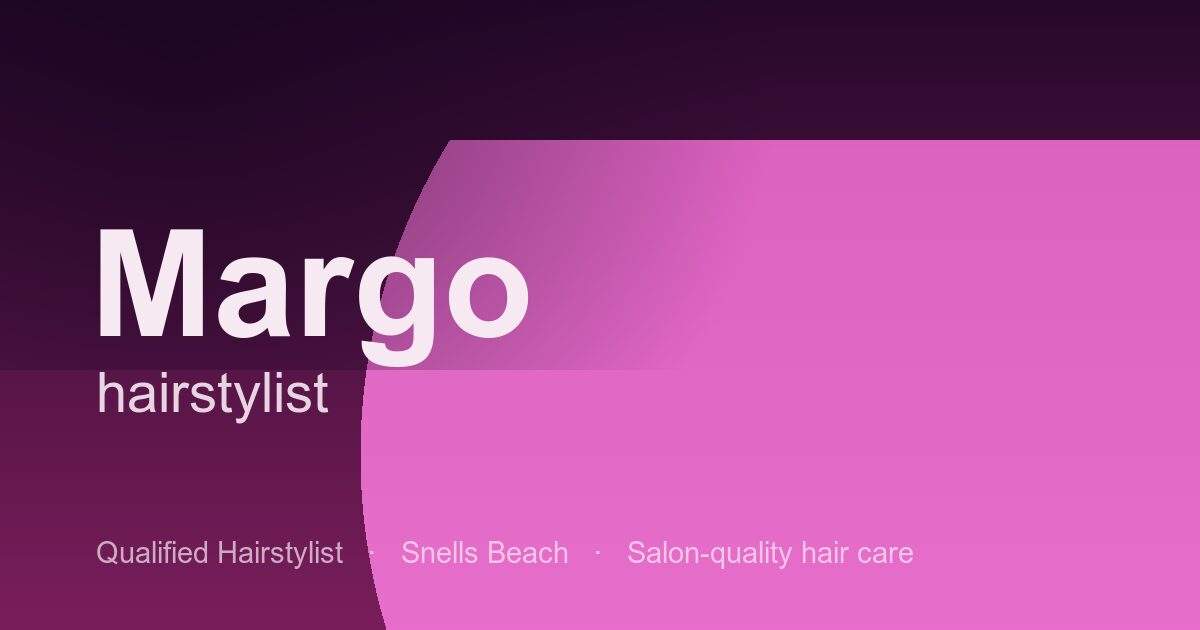
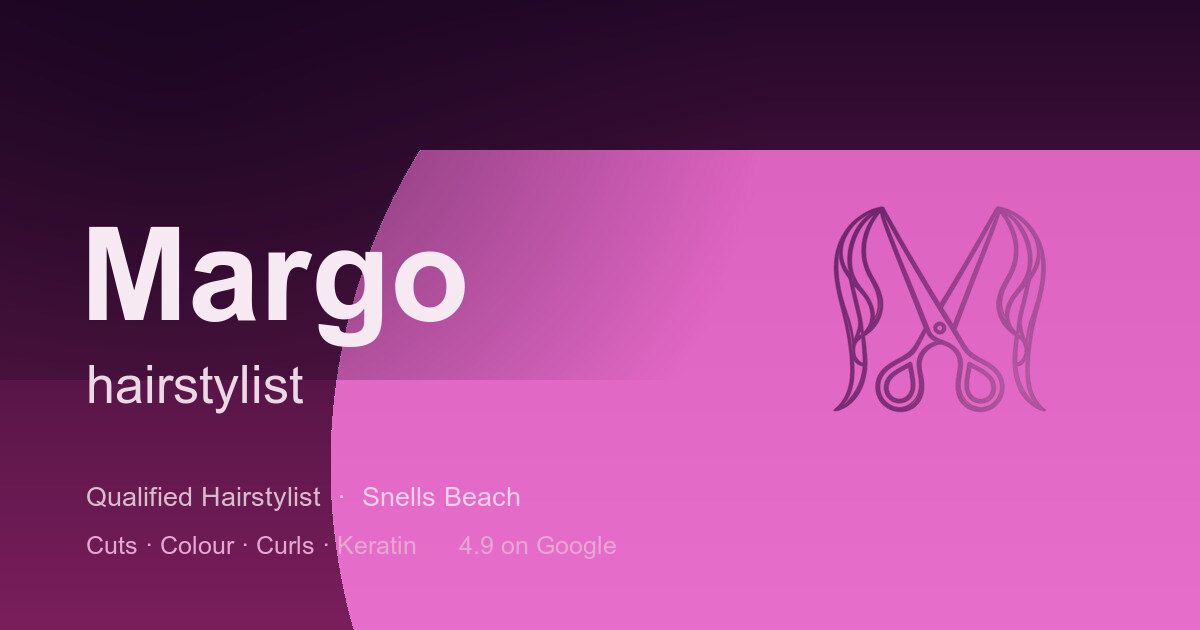
Blog articles from infographics, article layout, QV badge on all pages, OG refresh
- Blog: 2 hair-science infographic articles (full text) + reader reordered
  to meta -> title -> hook -> image -> body
- Split "Margo's promise" into its own section so Blog nav lands on the posts
- QV owl badge added to /login and /admin (every page, every breakpoint)
- Numbered boxes: number + title inline (services + why-margo), mobile-friendly
- New branded OG image (logo + tagline + 4.9 Google) + refreshed OG/Twitter copy

Changed region(s): [[0.0617, 0.2413, 0.7708, 1.0], [0.6783, 0.3317, 0.8942, 0.6635], [0.37, 0.2111, 1.0, 0.2413]]

diff --git a/src/index.css b/src/index.css
@@ -365,19 +365,25 @@ h1, h2, h3, h4 {
 .about-card {
   padding: 2rem 0;
   border-top: 1px solid var(--line);
+  display: grid;
+  grid-template-columns: auto 1fr;
+  grid-template-areas: "num title" ". body";
+  column-gap: 0.6rem;
+  row-gap: 0.75rem;
+  align-items: baseline;
 }
 .about-card .num {
+  grid-area: num;
   font-family: var(--serif);
   font-style: italic;
   color: var(--terracotta);
   font-size: 1rem;
-  margin-bottom: 1rem;
-  display: block;
 }
 .about-card h3 {
+  grid-area: title;
   font-size: 1.6rem;
-  margin-bottom: 0.75rem;
 }
+.about-card p { grid-area: body; }
 .about-card p {
   font-size: 0.95rem;
   color: var(--cream-soft);
@@ -651,14 +657,22 @@ h1, h2, h3, h4 {
 .modal-overlay.open .article-modal { transform: none; }
 .article-close { position: absolute; top: 1rem; right: 1rem; z-index: 2; background: rgba(20,10,22,0.55); backdrop-filter: blur(4px); border-radius: 999px; width: 38px; height: 38px; display: inline-flex; align-items: center; justify-content: center; color: var(--cream); }
 .article-close:hover { color: var(--terracotta); }
-.article-hero { position: relative; width: 100%; overflow: hidden; border-radius: 18px 18px 0 0; background: #2a1836; }
+/* Universal article layout: title -> hook subtitle -> image -> body paragraphs */
+.article-head { padding: 2.3rem 2rem 1.5rem; }
+.article-meta { font-size: 0.72rem; letter-spacing: 0.16em; text-transform: uppercase; color: var(--terracotta); }
+.article-head h2 { font-family: var(--serif); font-size: clamp(1.7rem, 3.6vw, 2.4rem); line-height: 1.1; margin: 0.6rem 0 0.75rem; }
+.article-hook { font-family: var(--serif); font-style: italic; font-size: clamp(1.05rem, 2vw, 1.28rem); line-height: 1.45; color: var(--cream-soft); opacity: 0.92; }
+.article-hero { position: relative; width: 100%; overflow: hidden; background: #2a1836; }
 .article-hero img { width: 100%; height: auto; display: block; }
-.article-content { padding: 1.9rem 2rem 2.1rem; }
-.article-content h2 { font-family: var(--serif); font-size: clamp(1.6rem, 3.4vw, 2.3rem); margin: 0.4rem 0 1.2rem; line-height: 1.1; }
+.article-content { padding: 1.7rem 2rem 2.1rem; }
 .article-content p { color: var(--cream-soft); opacity: 0.85; margin-bottom: 1rem; font-size: 1rem; line-height: 1.7; }
 .article-foot { margin-top: 1.6rem; padding-top: 1.4rem; border-top: 1px solid var(--line); display: flex; align-items: center; justify-content: space-between; gap: 1rem; flex-wrap: wrap; }
 .article-foot span { font-family: var(--serif); font-style: italic; font-size: 1.1rem; color: var(--cream); max-width: 60%; }
-@media (max-width: 560px) { .article-content { padding: 1.4rem 1.25rem 1.6rem; } .article-foot span { max-width: 100%; } }
+@media (max-width: 560px) {
+  .article-head { padding: 1.6rem 1.25rem 1.1rem; }
+  .article-content { padding: 1.4rem 1.25rem 1.6rem; }
+  .article-foot span { max-width: 100%; }
+}
 
 /* ---------- MAP ---------- */
 .map-section {
@@ -961,7 +975,20 @@ h1, h2, h3, h4 {
 .service h3 { font-size: clamp(1.4rem, 2.4vw, 1.95rem); }
 .service .desc { font-size: 0.95rem; color: var(--cream-soft); opacity: 0.78; max-width: 54ch; }
 .services-note { margin-top: 2rem; font-size: 0.95rem; color: var(--cream-soft); opacity: 0.7; }
-@media (max-width: 860px) { .service { grid-template-columns: 1fr; gap: 0.5rem; padding: 1.6rem 0; } }
+@media (max-width: 860px) {
+  /* number + title stay on ONE line; description drops below, aligned under the title */
+  .service {
+    grid-template-columns: auto 1fr;
+    grid-template-areas: "idx title" ". desc";
+    column-gap: 0.85rem;
+    row-gap: 0.4rem;
+    padding: 1.6rem 0;
+    align-items: baseline;
+  }
+  .service .idx { grid-area: idx; }
+  .service h3 { grid-area: title; }
+  .service .desc { grid-area: desc; }
+}
 
 /* ---------- SHOP ---------- */
 .shop { background: var(--bg); }
@@ -1244,11 +1271,32 @@ h1, h2, h3, h4 {
 .checkout-success p { font-size: 0.9rem; color: var(--cream-soft); opacity: 0.8; }
 .modal-close { position: absolute; }
 
+/* ---------- QV badge on every page (login / admin) ---------- */
+.page-qv {
+  text-align: center;
+  opacity: 0.85;
+  font-size: 0.9rem;
+}
+.page-qv a {
+  display: inline-flex; align-items: center; gap: 9px;
+  color: var(--cream);
+  transition: color 0.3s, opacity 0.3s;
+}
+.page-qv a:hover { color: var(--terracotta); }
+.page-qv svg { display: block; flex-shrink: 0; }
+/* login: pin the badge to the bottom of the screen */
+.login-shell .page-qv {
+  position: absolute;
+  bottom: 1.4rem; left: 0; right: 0;
+  opacity: 0.7;
+}
+
 /* ---------- LOGIN (hidden /login) ---------- */
 .login-shell {
+  position: relative;
   min-height: 100svh;
   display: flex; align-items: center; justify-content: center;
-  padding: 1.5rem;
+  padding: 1.5rem 1.5rem 4.5rem;
   background:
     radial-gradient(circle at 30% 20%, rgba(122,30,91,0.35), transparent 55%),
     var(--bg);

diff --git a/src/App.jsx b/src/App.jsx
@@ -814,13 +814,15 @@ export default function App() {
           {article && (
             <>
               <button className="cart-close article-close" onClick={() => setArticle(null)} aria-label="Close"><X size={22} /></button>
+              <div className="article-head">
+                <span className="article-meta">{article.category} · {article.date}</span>
+                <h2>{article.title}</h2>
+                <p className="article-hook">{article.excerpt}</p>
+              </div>
               <div className="article-hero">
                 <img src={article.image} alt={article.title} />
-                <span className="journal-cat">{article.category}</span>
               </div>
               <div className="article-content">
-                <span className="journal-date">{article.date}</span>
-                <h2>{article.title}</h2>
                 {article.body.map((p, i) => <p key={i}>{p}</p>)}
                 <div className="article-foot">
                   <span>Questions about your hair? Margo is happy to talk you through it.</span>

diff --git a/src/Admin.jsx b/src/Admin.jsx
@@ -1,6 +1,7 @@
 import { useEffect, useState, useRef } from 'react'
 import { Plus, Pencil, Trash2, LogOut, RotateCcw, Check, X, Upload } from 'lucide-react'
 import { loadProducts, saveProducts, resetProducts, slugId, money } from './products'
+import FooterOwl from './components/FooterOwl'
 
 const EMPTY = { id: '', name: '', brand: 'Angel en Provence', note: '', price: '', image: '', inStock: true }
 
@@ -206,6 +207,12 @@ export default function Admin() {
               </div>
             </div>
           ))}
+        </div>
+
+        <div className="page-qv" style={{ paddingTop: '2.5rem' }}>
+          <a href="https://quantumvector.org" target="_blank" rel="noopener noreferrer">
+            <FooterOwl size={18} /> Powered by Quantum Vector
+          </a>
         </div>
       </div>
 

diff --git a/src/Login.jsx b/src/Login.jsx
@@ -1,5 +1,6 @@
 import { useState, useEffect } from 'react'
 import { Lock, ArrowRight } from 'lucide-react'
+import FooterOwl from './components/FooterOwl'
 
 // Demo-level gate. The password lives client-side, so this keeps the admin page
 // out of casual reach (no link points to it, and you need the URL + password) but
@@ -60,6 +61,12 @@ export default function Login() {
 
         <a href="/" className="login-back">← Back to website</a>
       </form>
+
+      <div className="page-qv">
+        <a href="https://quantumvector.org" target="_blank" rel="noopener noreferrer">
+          <FooterOwl size={18} /> Powered by Quantum Vector
+        </a>
+      </div>
     </div>
   )
 }

diff --git a/index.html b/index.html
@@ -14,7 +14,7 @@
     <meta property="og:type" content="website" />
     <meta property="og:url" content="https://margohairstylist.co.nz/" />
     <meta property="og:title" content="Margo Hairstylist, Snells Beach" />
-    <meta property="og:description" content="Salon-quality cuts, colour and curls in a warm home studio in Snells Beach. Rated 4.9 on Google. Shop the organic hair care Margo uses in the salon." />
+    <meta property="og:description" content="Cuts, colour, curls and keratin by Margo, a qualified hairstylist in Snells Beach. Rated 4.9 on Google. Plus a shop of organic hair care and honest advice to keep your hair its best at home." />
     <meta property="og:image" content="https://margohairstylist.co.nz/og-image.jpg" />
     <meta property="og:image:width" content="1200" />
     <meta property="og:image:height" content="630" />
@@ -24,7 +24,7 @@
 
     <meta name="twitter:card" content="summary_large_image" />
     <meta name="twitter:title" content="Margo Hairstylist, Snells Beach" />
-    <meta name="twitter:description" content="Salon-quality cuts, colour and curls in a warm home studio in Snells Beach. Rated 4.9 on Google." />
+    <meta name="twitter:description" content="Cuts, colour, curls and keratin by Margo, a qualified hairstylist in Snells Beach. Rated 4.9 on Google. Plus a shop of organic hair care." />
     <meta name="twitter:image" content="https://margohairstylist.co.nz/og-image.jpg" />
 
     <!-- AI search hints (llmstxt.org proposed standard) -->